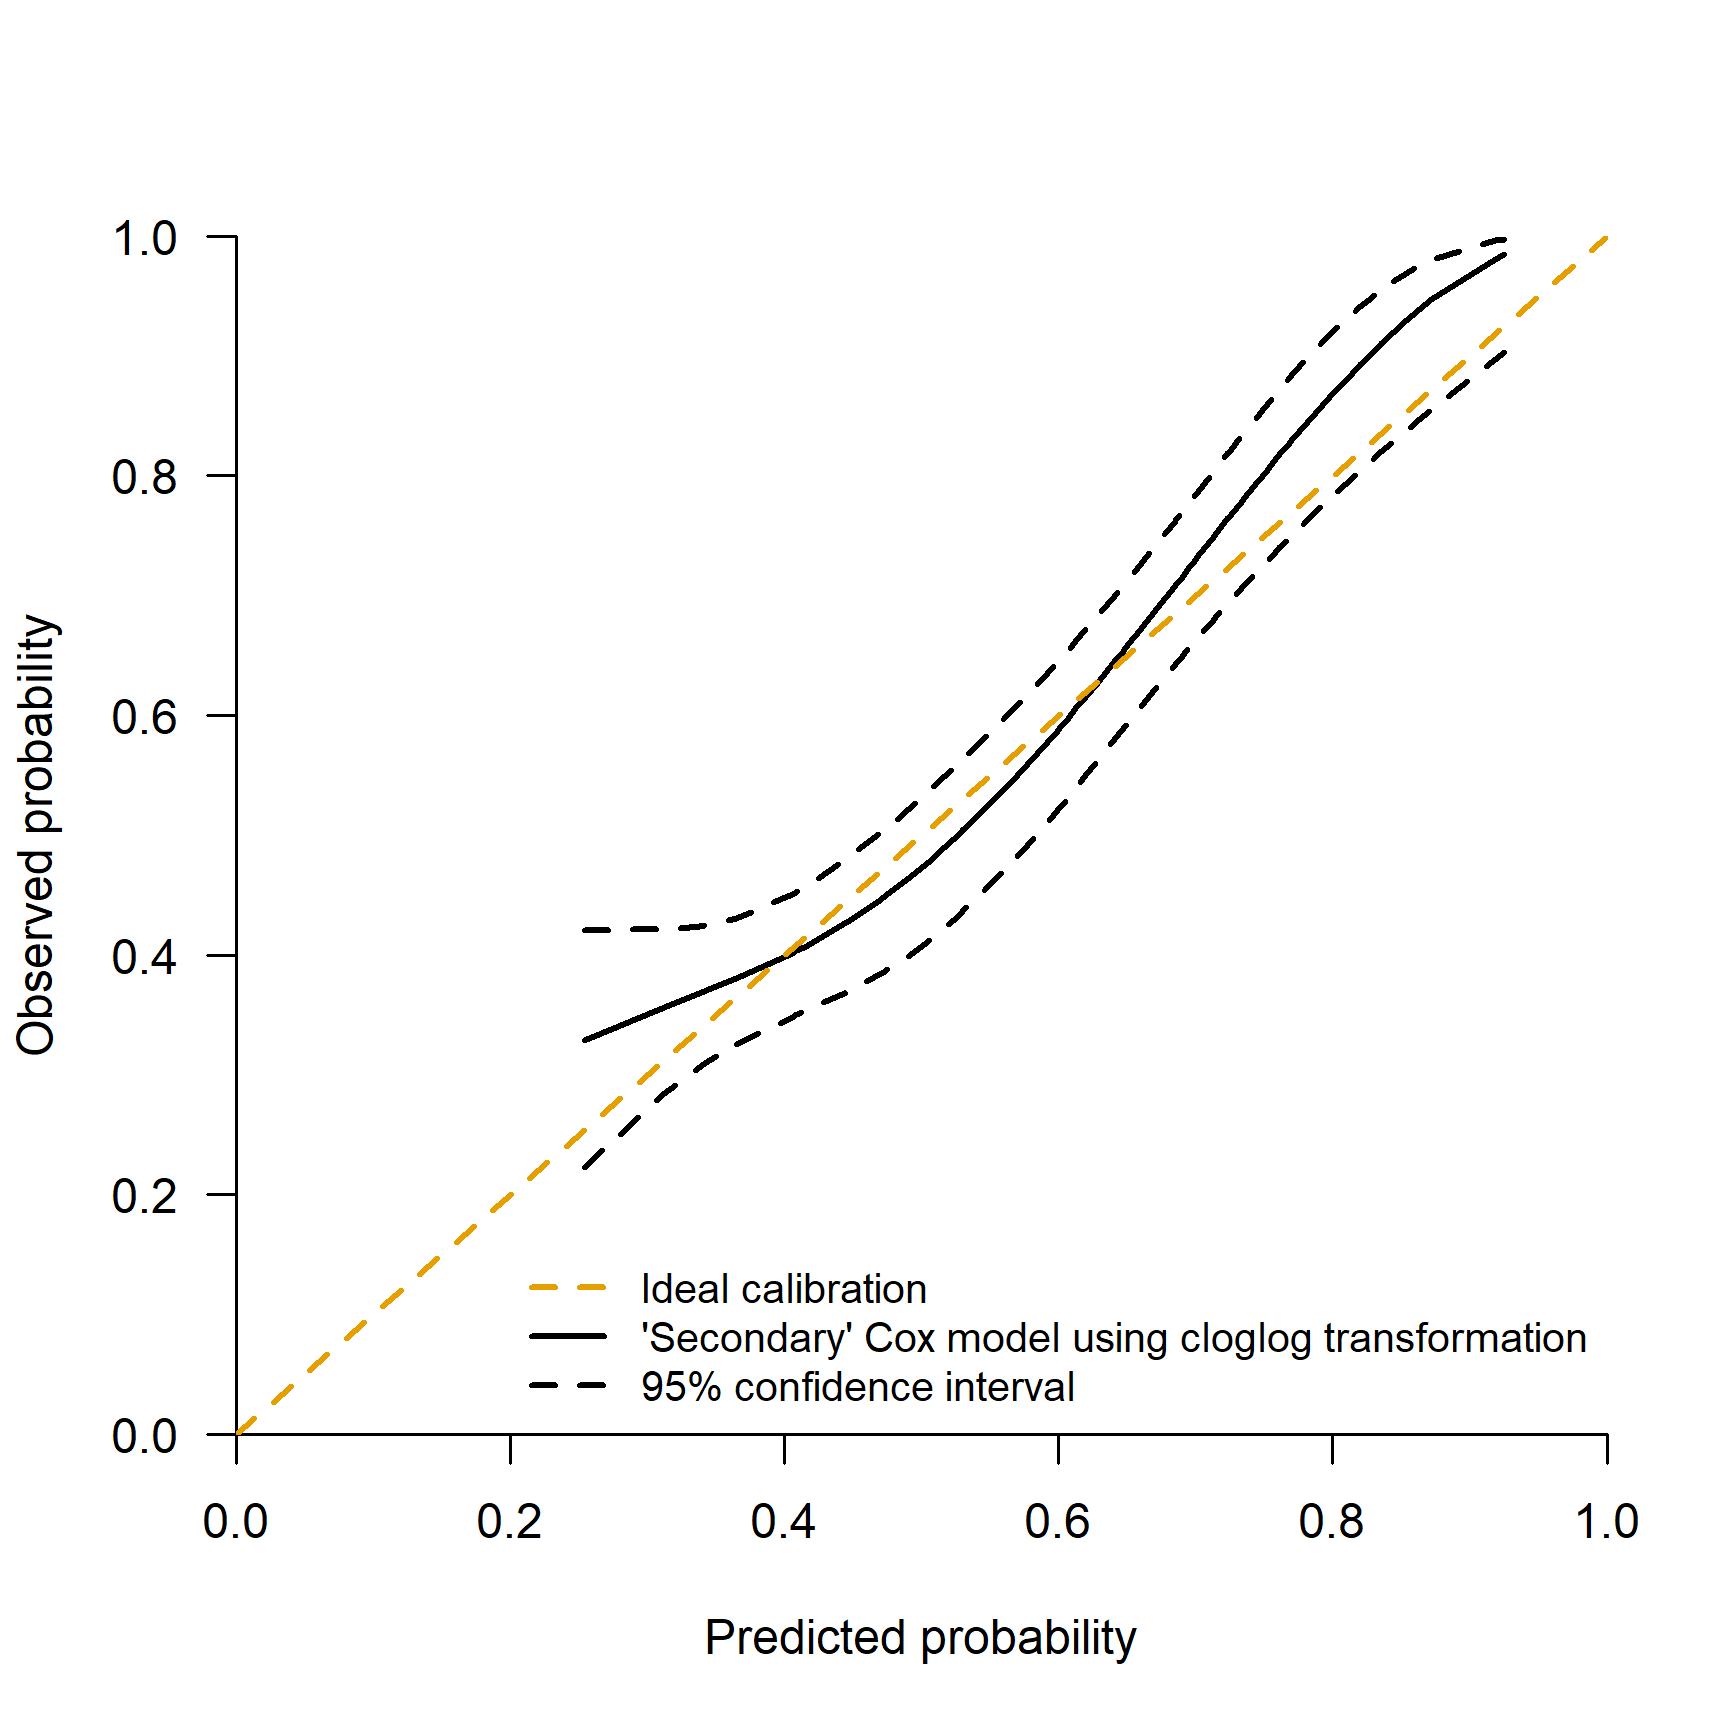
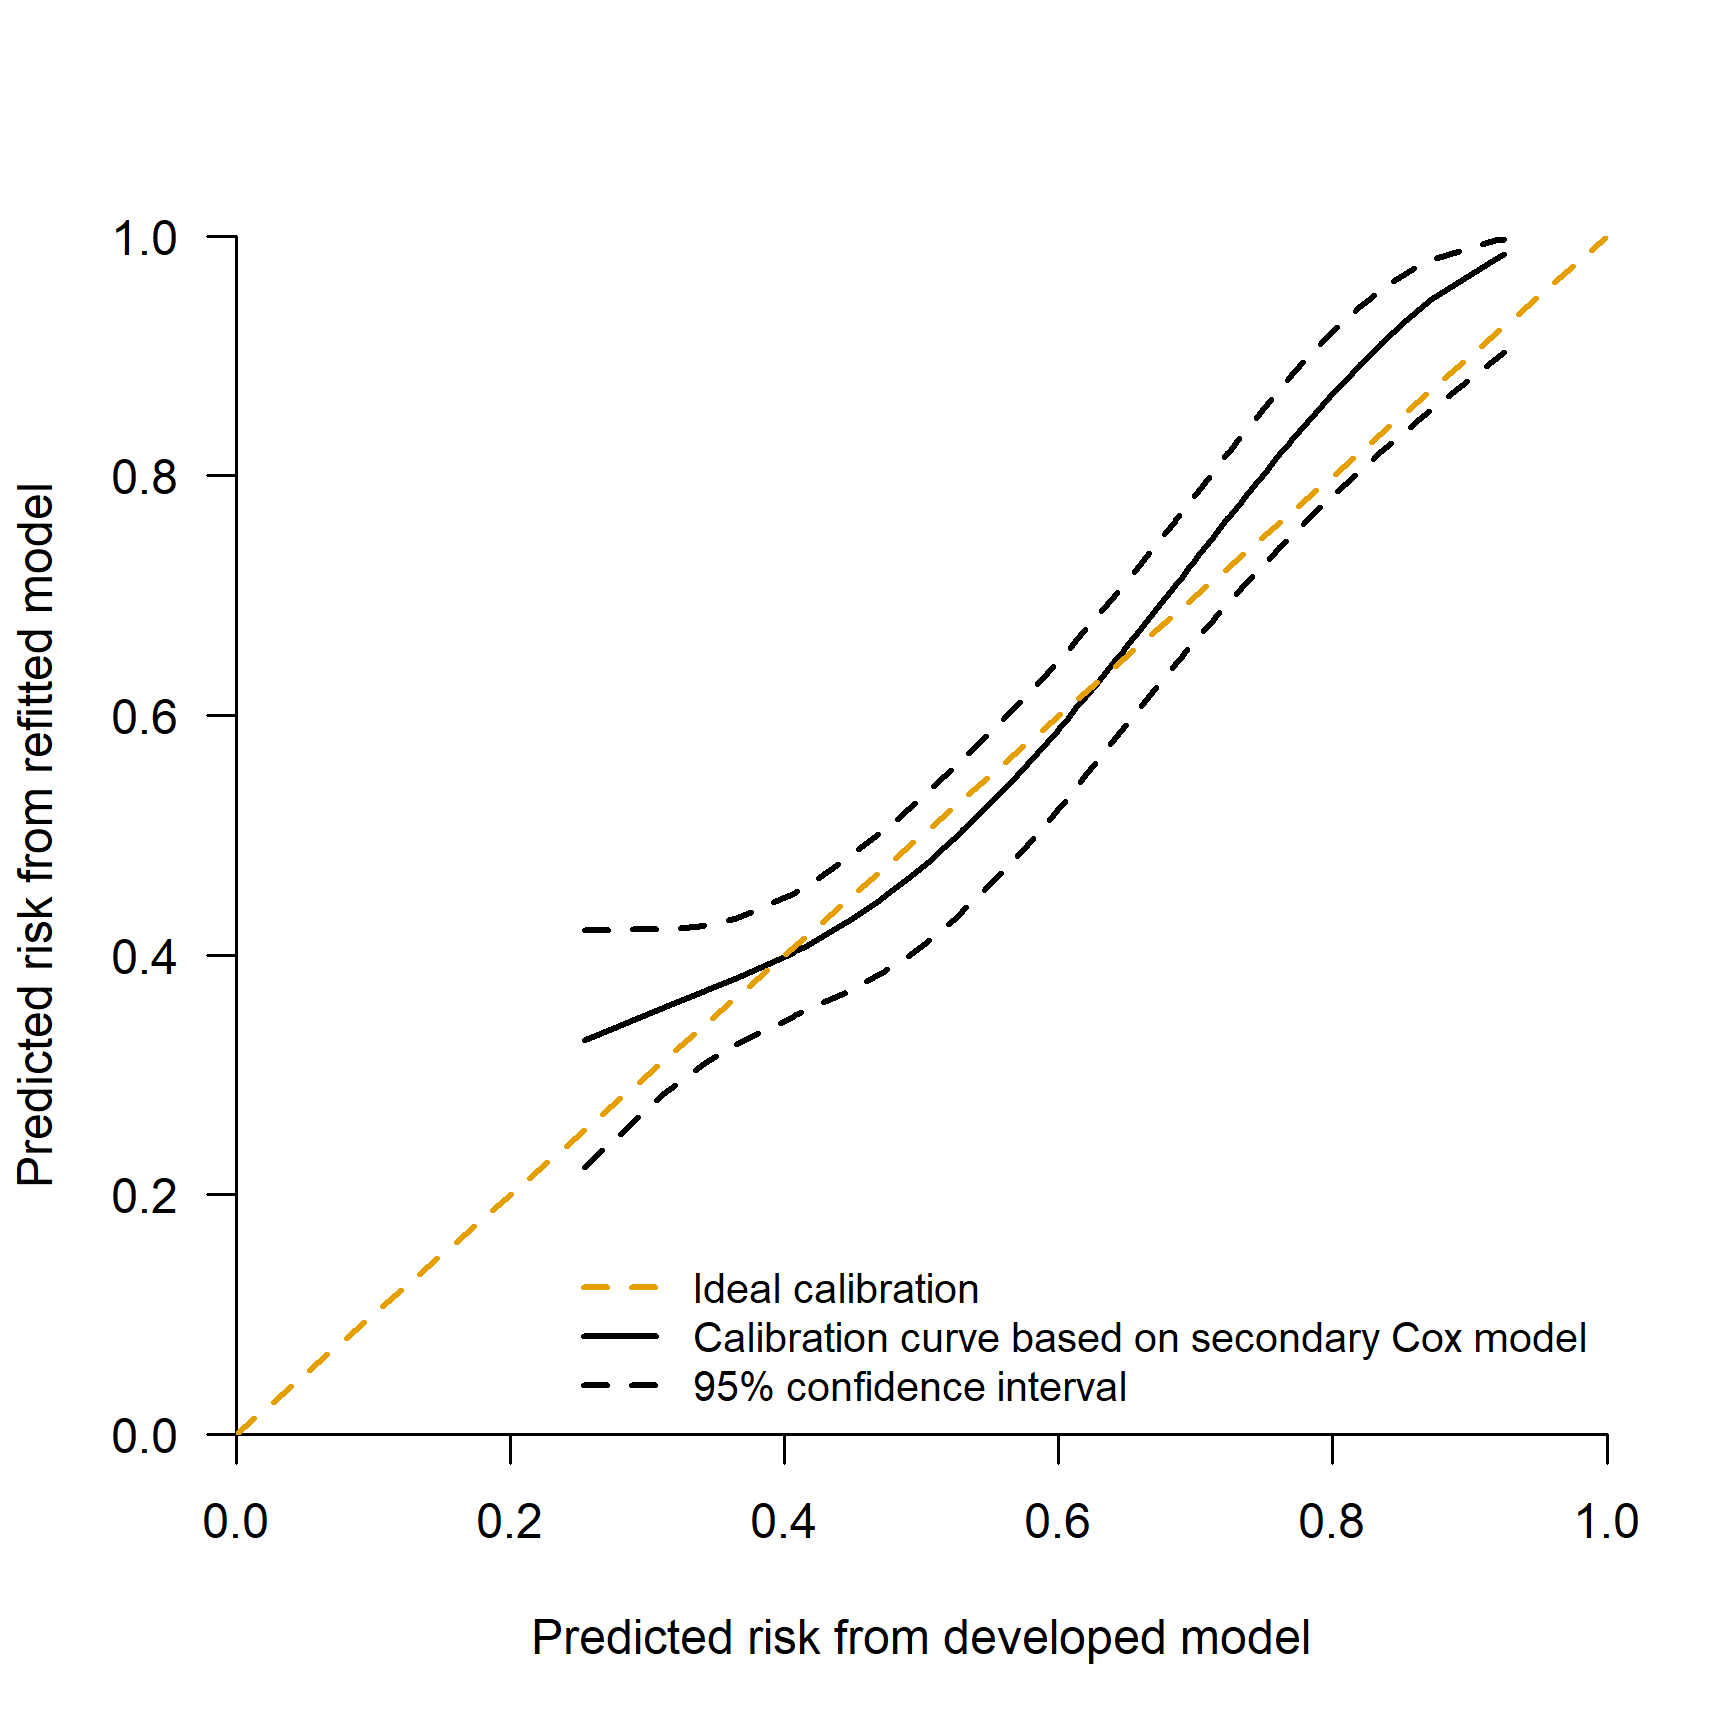
updates after journal's revisions

Changed region(s): [[0.3438, 0.7188, 0.9062, 0.8125], [0.3125, 0.9375, 0.75, 0.9688], [0.0, 0.2812, 0.0312, 0.6875]]

diff --git a/01_predsurv_minimal_RMD.md b/01_predsurv_minimal_RMD.md
@@ -379,11 +379,36 @@ Uno_C_gbsg5 <- concordance(Surv(ryear, rfs) ~ lp,
 
 Harrell C and Uno C were 0.65 and 0.64, respectively.
 
+<details>
+<summary>
+Click to expand code
+</summary>
+
+``` r
+# Time-dependent AUC (in Table 3 called Uno's TD AUC at 5 years) ###
+
+# External validation
+Uno_gbsg5 <-
+  timeROC(
+    T = gbsg5$ryear, 
+    delta = gbsg5$rfs,
+    marker = gbsg5$lp,
+    cause = 1, 
+    weighting = "marginal", 
+    times = 4.99,
+    iid = TRUE
+  )
+
+# COMMENT: if you have a lot of data n > 2000, standard error computation may be really long. Please use bootstrap percentile to calculate confidence intervals.
+```
+
+</details>
+
     ##   Uno AUC Lower .95 Upper .95 
     ##      0.68      0.62      0.73
 
 The time-dependent AUCs at 5 years were in the external validation was
-0.69.
+0.68.
 
 ### 2.2 Calibration
 
@@ -604,8 +629,8 @@ plot(
   xlim = c(0, 1),
   ylim = c(0, 1), 
   lwd = 2,
-  xlab = "Predicted probability",
-  ylab = "Observed probability", bty = "n"
+  xlab = "Predicted risk from developed model",
+  ylab = "Predicted risk from refitted model", bty = "n"
 )
 lines(dat_cal$pred, 
       dat_cal$lower, 
@@ -620,7 +645,7 @@ lines(dat_cal$pred,
 abline(0, 1, lwd = 2, lty = 2, col = 2)
 legend("bottomright",
         c("Ideal calibration",
-          "'Secondary' Cox model using cloglog transformation",
+          "Calibration curve based on secondary Cox model",
           "95% confidence interval"),
         col = c(2, 1, 1),
         lty = c(2, 1, 2),
